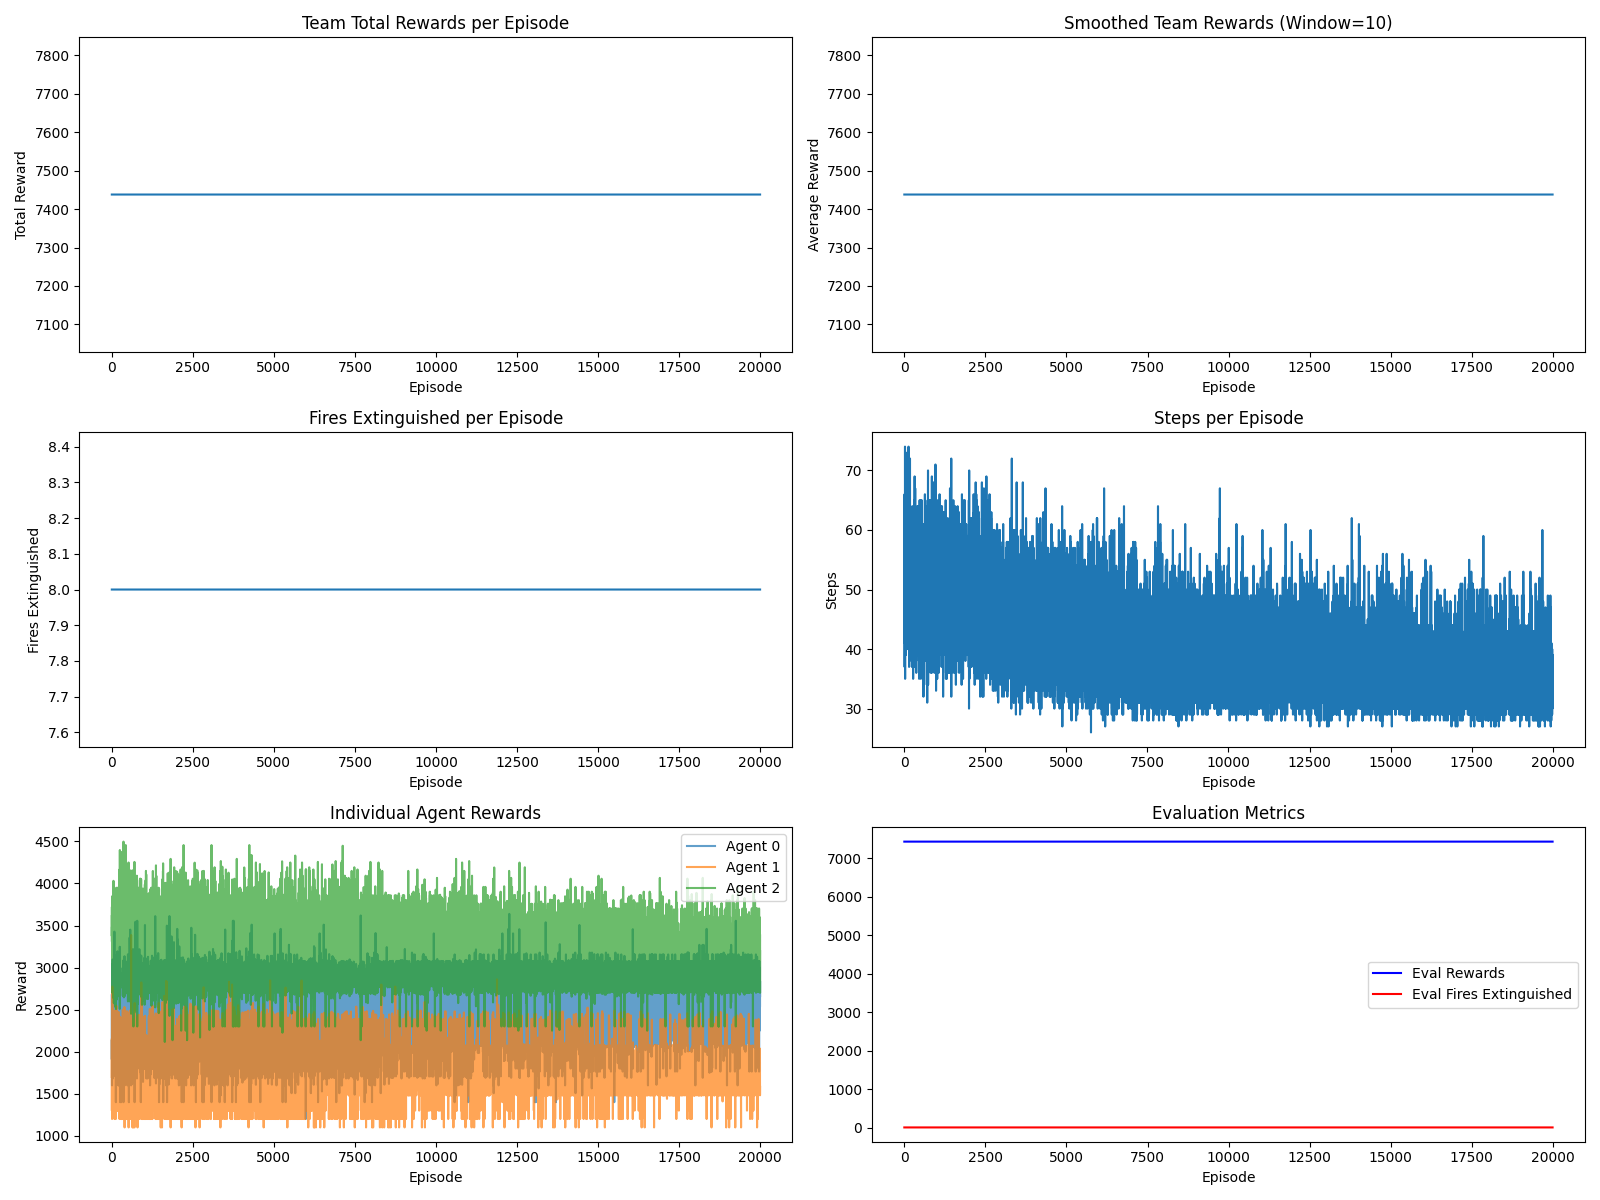
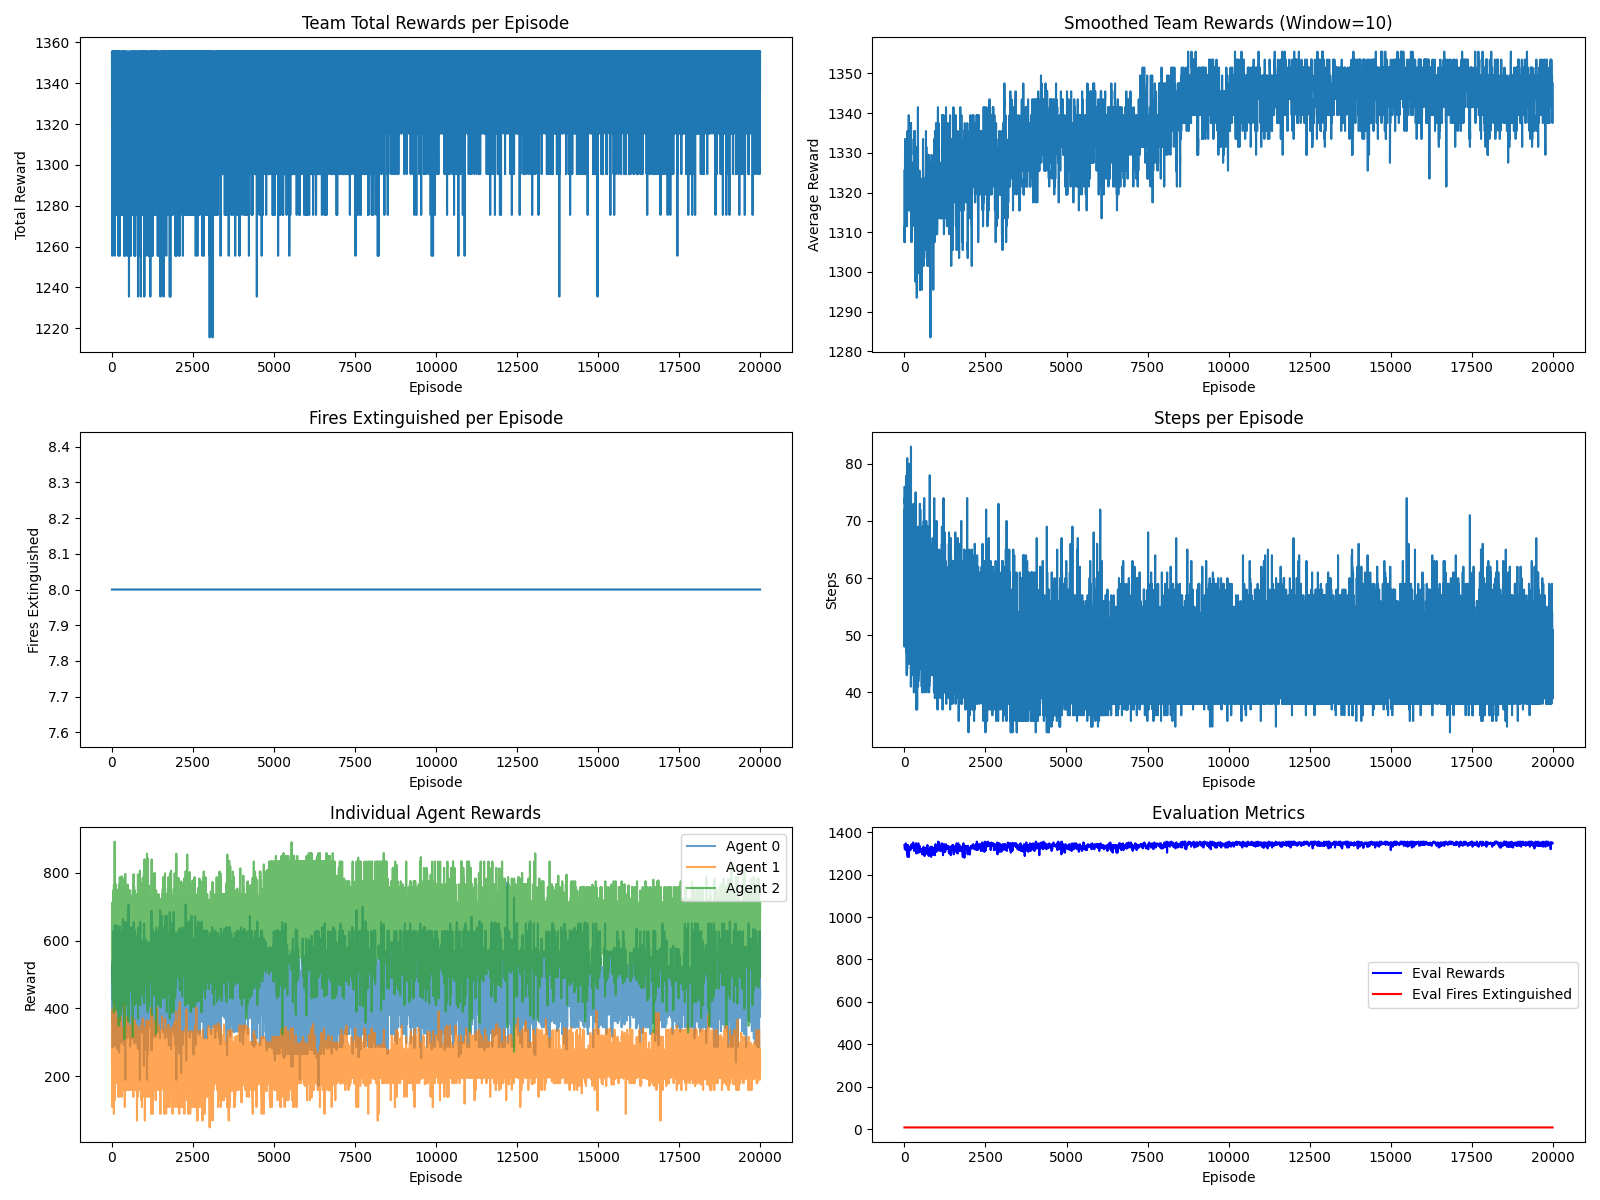
Cambios en las recompensas, recompensas negativas añadidas para movimientos no óptimos

diff --git a/environment.py b/environment.py
@@ -151,7 +151,8 @@ class FirefightingEnv(gym.Env):
         
         for agent_id in range(self.num_agents):
             available_nodes = [node for node in self.starter_nodes]
-            start_node = random.choice(available_nodes)
+            # start_node = random.choice(available_nodes)  # Randomly select a starting node
+            start_node = available_nodes[0] # All agents start at the same node for consistency in results (steps done)
             self.agent_positions[agent_id] = start_node
             
             # Start with all water
@@ -196,7 +197,9 @@ class FirefightingEnv(gym.Env):
         # 1. Procesar movimiento de todos los agentes
         for agent_id in range(self.num_agents):
             if self.agent_in_transit[agent_id]:
-                self.move_to_node(agent_id, self.agent_transit_target[agent_id])
+                reward = self.move_to_node(agent_id, self.agent_transit_target[agent_id])
+                rewards[agent_id] = reward
+                self.agent_rewards[agent_id] += reward
                 # Si llegó a destino en este turno
                 if not self.agent_in_transit[agent_id]:
                     just_arrived_agents.add(agent_id)
@@ -240,7 +243,7 @@ class FirefightingEnv(gym.Env):
         # Bonus reward for extinguishing all fires
         if terminated:
             for agent_id in range(self.num_agents):
-                rewards[agent_id] += 1000.0
+                rewards[agent_id] += 100.0
         # Get observations for all agents
         observations = tuple(self._get_observation(agent_id) for agent_id in range(self.num_agents))
         info = self._get_info()
@@ -287,7 +290,7 @@ class FirefightingEnv(gym.Env):
         """Move an agent to a target node with transit time."""
         # Si ya está en el nodo destino, no hacer nada
         if self.agent_positions[agent_id] == target_node:
-            return
+            return 0
         # Si el agente ya está en tránsito, procesar el tiempo restante
         if self.agent_in_transit[agent_id]:
             # Reducir tiempo restante
@@ -320,7 +323,7 @@ class FirefightingEnv(gym.Env):
                             self.agent_transit_source[agent_id] = None
                             self.agent_transit_target[agent_id] = None
                             self.final_destinations[agent_id] = None
-                            return
+                            return -20 # Penalización por ir a un nodo de fuego que iba a ser extinguido
                     # Actualizar objetivo de tránsito
                     self.agent_transit_source[agent_id] = self.agent_transit_target[agent_id]
                     new_target_node = self.final_destinations[agent_id]
@@ -328,7 +331,7 @@ class FirefightingEnv(gym.Env):
                     # Si hay un siguiente nodo en el camino
                     self.agent_transit_time_remaining[agent_id] = self.graph[self.agent_transit_source[agent_id]][path[1]]['transit_time']
                     self.agent_transit_target[agent_id] = path[1]
-            return
+            return 0 
         # Iniciar un nuevo tránsito
         path = nx.shortest_path(self.graph, source=self.agent_positions[agent_id], target=target_node, weight='transit_time')
         # Move to the first node in the path
@@ -349,10 +352,10 @@ class FirefightingEnv(gym.Env):
         """Handle an agent's action to target a fire node."""
         # Check if fire still exists
         if fire_node not in self.fires_remaining or self.fires_remaining[fire_node] <= 0:
-            return 0
+            return -20  # Penalización por intentar extinguir un incendio que ya no existe
         # Check if agent has enough water
         if self.agent_water_levels[agent_id] <= 0:
-            return 0
+            return -10
         
         # Si el agente no está en el nodo de incendio, moverse hacia él
         if self.agent_positions[agent_id] != fire_node:
@@ -367,9 +370,9 @@ class FirefightingEnv(gym.Env):
         self.fires_remaining[fire_node] -= water_used
         self.agent_water_levels[agent_id] -= water_used
         # Update rewards
-        reward = water_used  # Reward for water used
+        reward = water_used * 0.5  # Reward for water used
         if self.fires_remaining[fire_node] <= 0:
-            reward += 400.0  # Bonus for extinguishing fire
+            reward += 50.0  # Bonus for extinguishing fire
             self.fires_extinguished += 1
 
             # Si el incendio fue extinguido, actualizar los espacios de acción de TODOS los agentes
